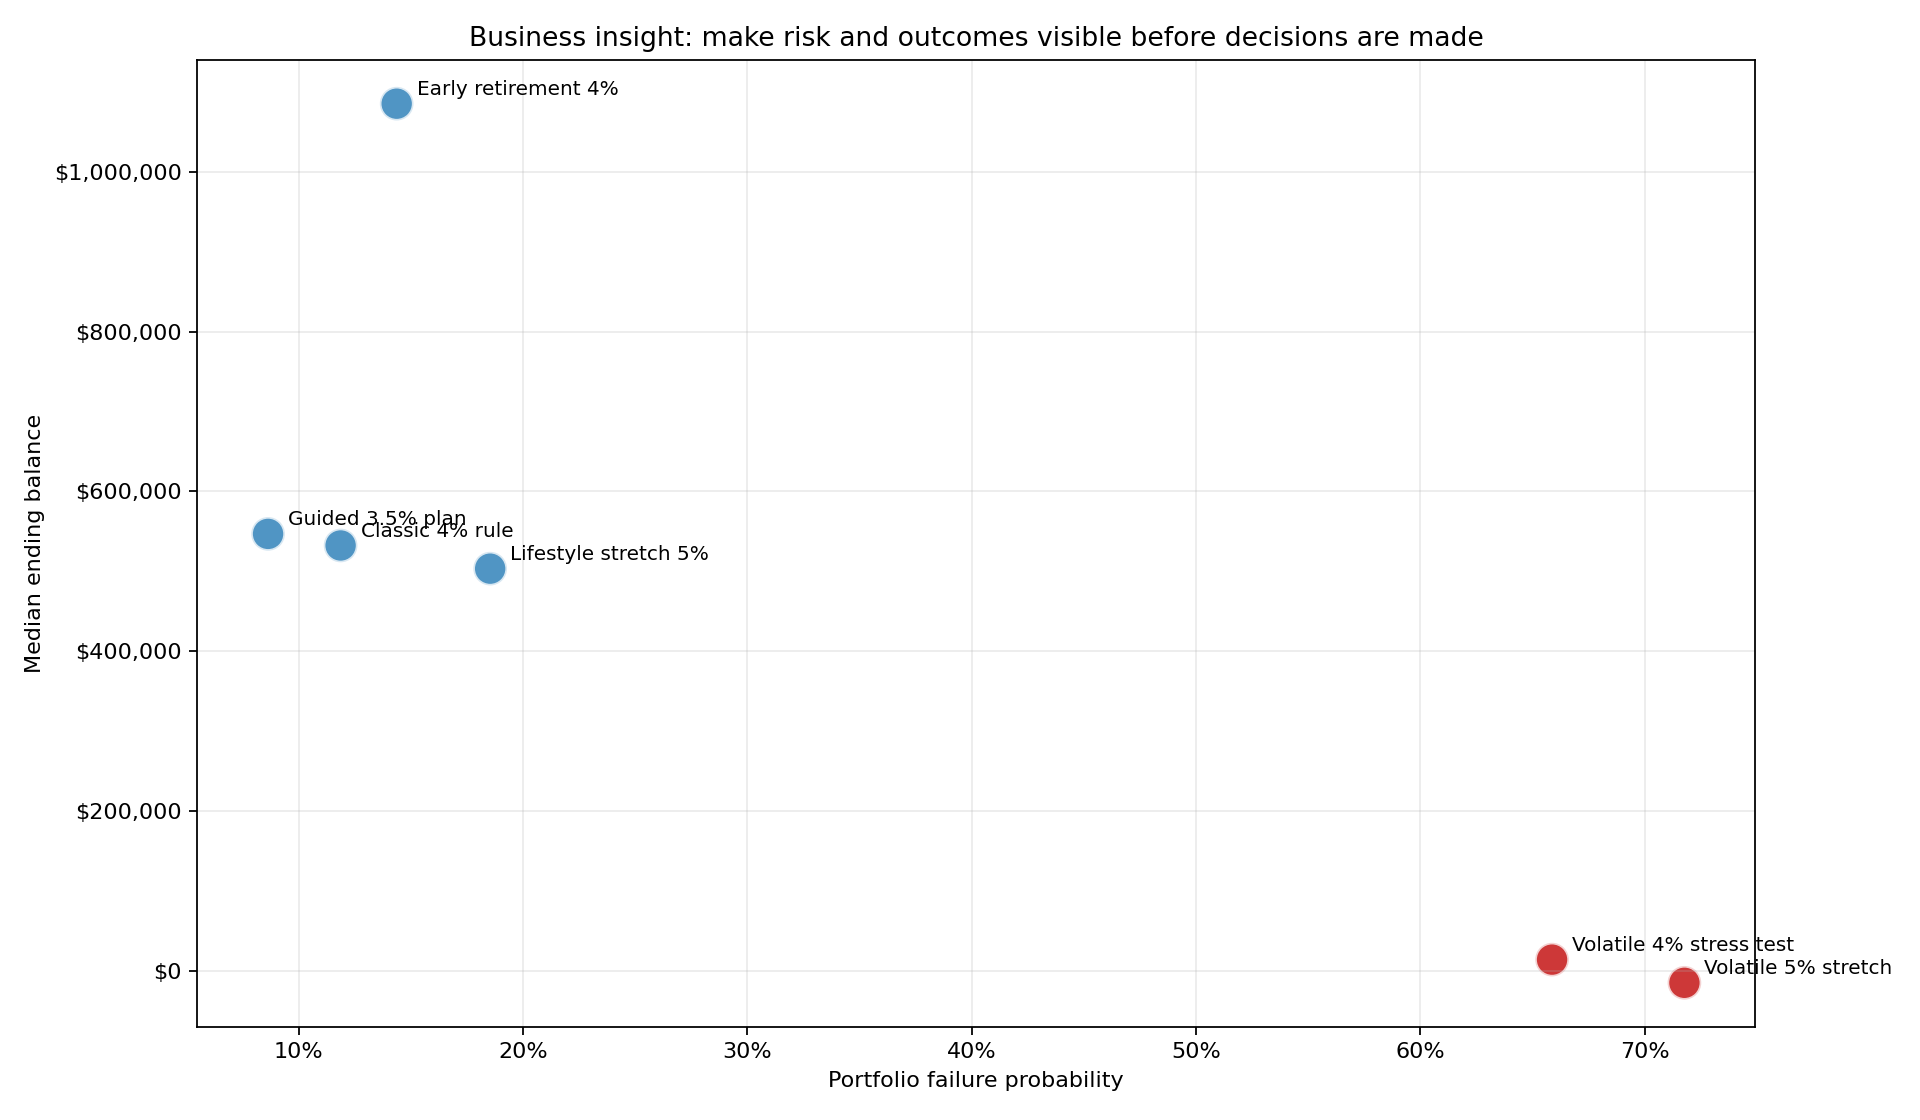
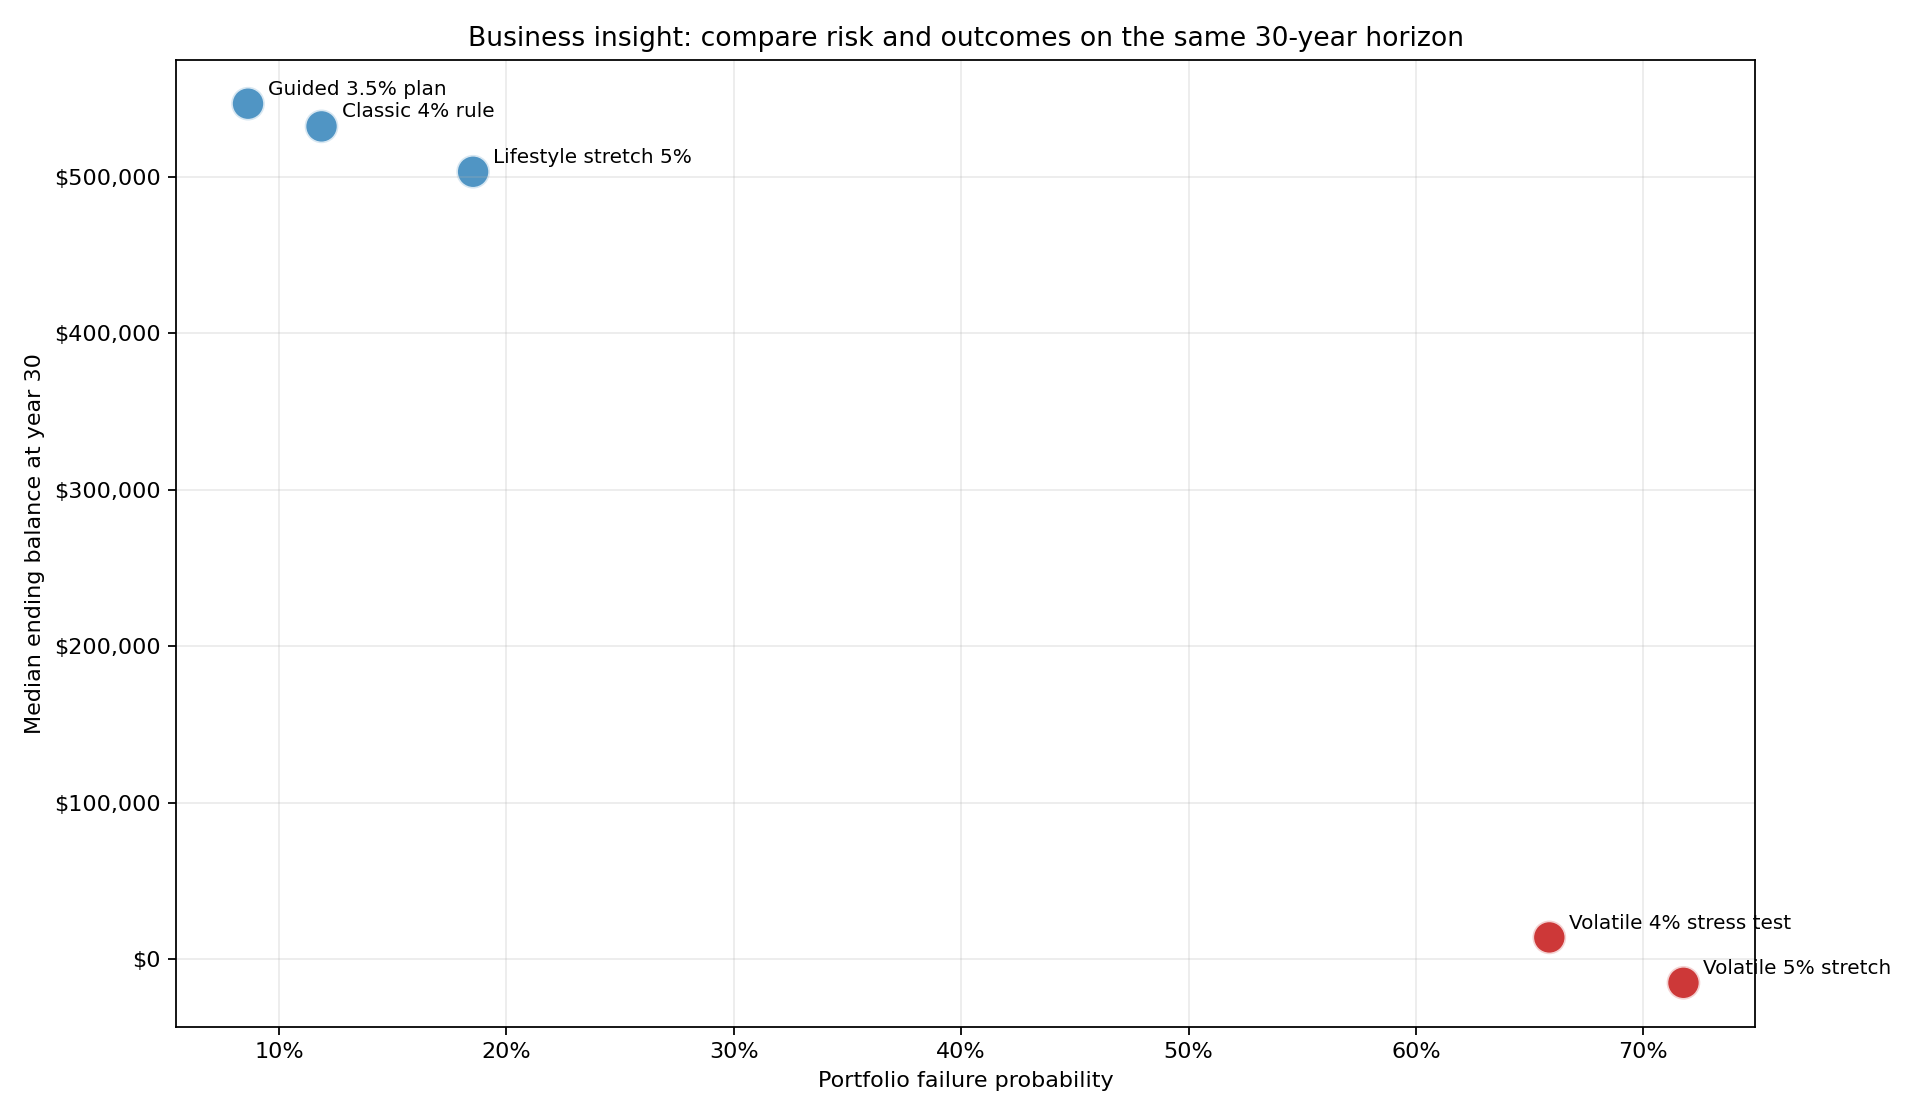
Fix business value chart comparisons

diff --git a/scripts/generate_business_value_insights.py b/scripts/generate_business_value_insights.py
@@ -299,18 +299,19 @@ def save_failure_sensitivity_chart(sweep_df):
 
 
 def save_business_value_matrix(benchmark_df):
+    comparable_df = benchmark_df[benchmark_df["sim_years"] == 30].copy()
     fig, ax = plt.subplots(figsize=(12, 7))
-    colors = np.where(benchmark_df["market_regime"].eq("Base market"), "#1f77b4", "#c00000")
+    colors = np.where(comparable_df["market_regime"].eq("Base market"), "#1f77b4", "#c00000")
     ax.scatter(
-        benchmark_df["failure_probability"],
-        benchmark_df["median_ending_balance"],
+        comparable_df["failure_probability"],
+        comparable_df["median_ending_balance"],
         s=230,
         c=colors,
         alpha=0.78,
         edgecolor="white",
         linewidth=1.5,
     )
-    for _, row in benchmark_df.iterrows():
+    for _, row in comparable_df.iterrows():
         ax.annotate(
             row["scenario"],
             (row["failure_probability"], row["median_ending_balance"]),
@@ -318,9 +319,9 @@ def save_business_value_matrix(benchmark_df):
             textcoords="offset points",
             fontsize=9,
         )
-    ax.set_title("Business insight: make risk and outcomes visible before decisions are made")
+    ax.set_title("Business insight: compare risk and outcomes on the same 30-year horizon")
     ax.set_xlabel("Portfolio failure probability")
-    ax.set_ylabel("Median ending balance")
+    ax.set_ylabel("Median ending balance at year 30")
     ax.xaxis.set_major_formatter(lambda value, _: f"{value:.0%}")
     ax.yaxis.set_major_formatter(lambda value, _: f"${value:,.0f}")
     ax.grid(alpha=0.25)
@@ -348,11 +349,14 @@ def save_demographic_risk_chart(demographic_df):
 
     fig, ax = plt.subplots(figsize=(12, 7))
     pivot.plot(kind="bar", ax=ax, color=["#1f77b4", "#c00000"], width=0.78)
+    for container in ax.containers:
+        labels = [f"{bar.get_height():.1%}" for bar in container]
+        ax.bar_label(container, labels=labels, padding=3, fontsize=9)
     ax.set_title("Business insight: gender longevity changes the planning horizon")
     ax.set_xlabel("Country, sex, median death age, and long-life planning age")
     ax.set_ylabel("Portfolio failure probability at 4% withdrawal")
     ax.yaxis.set_major_formatter(lambda value, _: f"{value:.0%}")
-    ax.set_ylim(0, 1)
+    ax.set_ylim(0, min(1.0, max(0.2, pivot.to_numpy().max() + 0.12)))
     ax.grid(axis="y", alpha=0.25)
     ax.legend(title="Market assumption")
     ax.tick_params(axis="x", rotation=0)
@@ -431,7 +435,7 @@ paginate: true
 
 ![Business value matrix](assets/business_value_matrix.png)
 
-**What the visualization shows:** each dot is a planning scenario. Moving right means higher failure risk; moving up means a higher median ending balance. The chart helps separate conservative, benchmark, stretch, and stress-test scenarios in one executive-friendly view.
+**What the visualization shows:** each dot is a 30-year planning scenario, so the ending balances are comparable on the same horizon. Moving right means higher failure risk; moving up means a higher median ending balance at year 30. The 40-year early-retirement case is kept in the CSV but intentionally excluded here because ending balances across different time horizons can be misleading.
 
 - A **4% volatile-market stress test** showed **{pct(volatile['failure_probability'])}** failure risk, compared with **{pct(classic['failure_probability'])}** for the base-market 4% benchmark.
 - A **5% lifestyle stretch** raised failure risk to **{pct(stretch['failure_probability'])}** while producing a median ending balance of **{currency(stretch['median_ending_balance'])}**.

diff --git a/docs/business_value_slides.md b/docs/business_value_slides.md
@@ -44,7 +44,7 @@ paginate: true
 
 ![Business value matrix](assets/business_value_matrix.png)
 
-**What the visualization shows:** each dot is a planning scenario. Moving right means higher failure risk; moving up means a higher median ending balance. The chart helps separate conservative, benchmark, stretch, and stress-test scenarios in one executive-friendly view.
+**What the visualization shows:** each dot is a 30-year planning scenario, so the ending balances are comparable on the same horizon. Moving right means higher failure risk; moving up means a higher median ending balance at year 30. The 40-year early-retirement case is kept in the CSV but intentionally excluded here because ending balances across different time horizons can be misleading.
 
 - A **4% volatile-market stress test** showed **65.9%** failure risk, compared with **11.9%** for the base-market 4% benchmark.
 - A **5% lifestyle stretch** raised failure risk to **18.5%** while producing a median ending balance of **$503,306**.